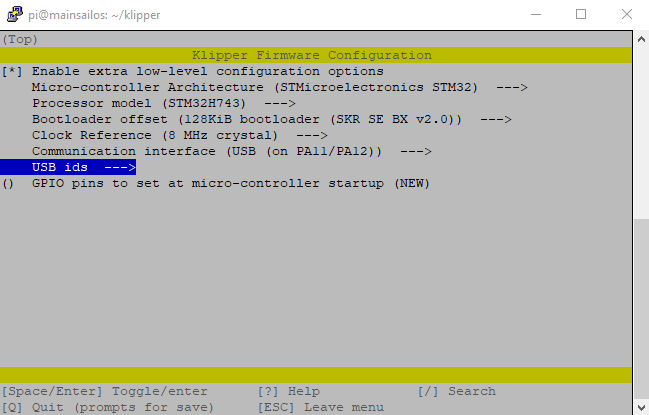
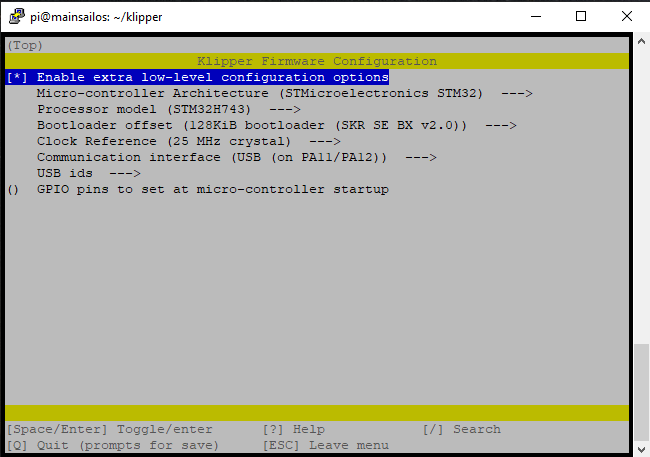
flashing the motherboard

Changed region(s): [[0.0, 0.0, 1.0, 1.0], [0.6471, 0.9253, 0.7704, 0.9542], [0.7704, 0.2024, 0.832, 0.2313]]

diff --git a/docs/vz235_printed/electronics/Firmware.md b/docs/vz235_printed/electronics/Firmware.md
@@ -94,19 +94,22 @@ Go down to Micro-controller Architecture and press the spacebar. you'll see a li
 
 Now go down to Processor Model and press space there. We're gonna be selecting the correct MCU we have on our Motherboard.
 
-For the Mellow Super 8 V1.3 we need the STM32F407. And we next Select the Bootloader offset to be 32KiB Bootloader.
+For the Mellow Super 8 V1.3 we need the STM32F407. 
 
-It should look like this.
+And we next Select the Bootloader offset to be 32KiB Bootloader like this.
 
-![stm32](../../assets/images/manual/vz235_printed/electronics/Firmware/F407Setup.PNG)
+![F407](../../assets/images/manual/vz235_printed/electronics/Firmware/F407Setup.PNG)
 
-For the Mellow Super 8 Pro we need to use the STM32H743 with a 128KiB bootloader Offset. Like this.
+For the Mellow Super 8 Pro we need to use the STM32H723 or the STM32H743 Check wich one you have by reading it on the Chip of the Motherboard.
 
-![stm32](../../assets/images/manual/vz235_printed/electronics/Firmware/H743.PNG)
+Use both with a 128KiB bootloader Offset. And a 25MHz Crystal Like this.
+
+![H723](../../assets/images/manual/vz235_printed/electronics/Firmware/H723.PNG)
+![H743](../../assets/images/manual/vz235_printed/electronics/Firmware/H743.PNG)
 
 Now you simply Press: Q and hit Y for Yes save configuration.
 
-![stm32](../../assets/images/manual/vz235_printed/electronics/Firmware/save.PNG)
+![Save](../../assets/images/manual/vz235_printed/electronics/Firmware/save.PNG)
 
 Once that is done you simply type this command in putty and it will make the firmware file for you.
 
@@ -114,10 +117,44 @@ Once that is done you simply type this command in putty and it will make the fir
 
 Once it's done with compiling the firmware you'll see something like this telling you the file is ready and where it is located.
 
-![stm32](../../assets/images/manual/vz235_printed/electronics/Firmware/firmwaredone.PNG)
+![firmwaredone](../../assets/images/manual/vz235_printed/electronics/Firmware/firmwaredone.PNG)
 
 # Putting the firmware on the Motherboard.
 
 Now we're gonna use are next bit of software called WinSCP from this site [WinSCP](https://winscp.net/eng/download.php).
 
 Once downloaded start it up and you'll see a screen like this.
+
+![WinSCP](../../assets/images/manual/vz235_printed/electronics/Firmware/WinSCP.PNG)
+
+Again fill in your printers details and press Login. It will give you a warning since this is the first time connecting but just press Add. Once logged in you'll see the files on your Pi.
+
+![logged in](../../assets/images/manual/vz235_printed/electronics/Firmware/loggedin.PNG)
+
+Next on the right side go to the Folder: Klipper and then go to the Folder: Out Like shown Bellow.
+
+![out](../../assets/images/manual/vz235_printed/electronics/Firmware/out.PNG)
+
+Next Right click the file klipper.bin and press Download you'll see a screen giving you a option where to save the file. Put it on the SDCard for the Motherboard. wich you should have plugged into your PC/Laptop at this time.
+
+Now open the SDCard and rename the file from klipper.bin to firmware.bin.
+
+![Download](../../assets/images/manual/vz235_printed/electronics/Firmware/download.PNG)
+
+
+Now power off your Printer and put in the SDCard with the firmware.bin file. Once you power it back on again and wait a couple of minutes and take out the SDCard and put it in your PC/Laptop. 
+
+The file should now be named FLY.CUR meaning the board successfully flashed.
+
+# Serial time
+
+Now we're gonna make sure the Motherboard can talk to the Pi. Put back the SDCard and power up the printer again.
+
+Once it's all powered on open Putty Login and type in this command.
+
+```ls /dev/serial/by-id/*```
+
+This will give you the serial you need to put in your Printer.cfg to make sure they can talk to eachother.
+
+![stm32](../../assets/images/manual/vz235_printed/electronics/Firmware/serial.PNG)
+
